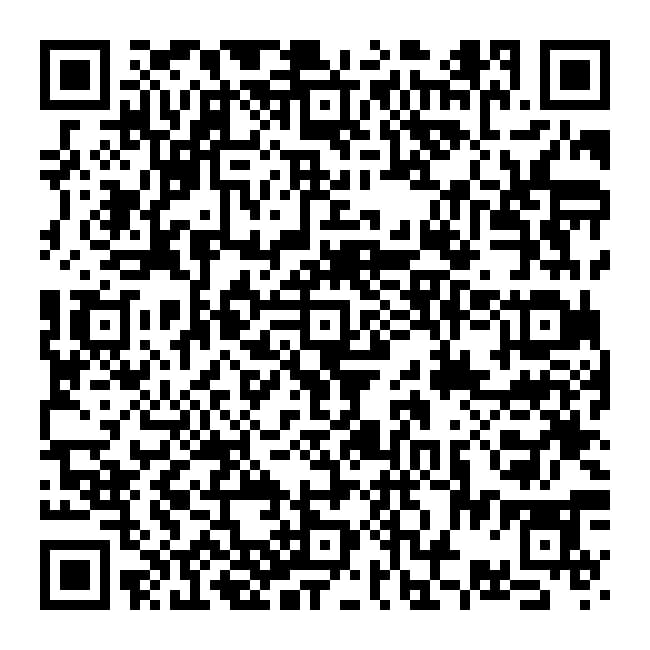
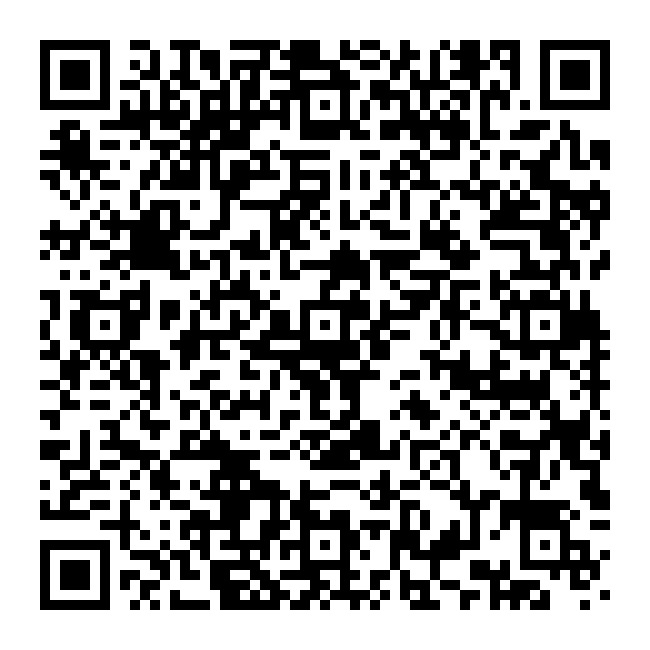
Updated

diff --git a/assets/js/main.js b/assets/js/main.js
@@ -9,13 +9,22 @@ document.addEventListener('DOMContentLoaded', function() {
         mirror: true
     });
     
-    // Preloader
+    // Preloader with scroll fix
     window.addEventListener('load', function() {
         const preloader = document.querySelector('.preloader');
         preloader.style.opacity = '0';
+        
+        // Ensure all resources are loaded and page is scrollable
         setTimeout(() => {
             preloader.style.display = 'none';
-        }, 500);
+            
+            // Fix for mobile scroll issues
+            document.body.style.height = 'auto';
+            document.documentElement.style.height = 'auto';
+            
+            // Force layout recalculation to ensure scrolling works
+            document.body.offsetHeight;
+        }, 800);
     });
     
     // Custom cursor
@@ -69,12 +78,8 @@ document.addEventListener('DOMContentLoaded', function() {
         hamburger.classList.toggle('active');
         navLinks.classList.toggle('active');
         
-        // Toggle body scroll when menu is open/closed
-        if (navLinks.classList.contains('active')) {
-            document.body.style.overflow = 'hidden'; // Prevent scrolling when menu is open
-        } else {
-            document.body.style.overflow = 'auto'; // Enable scrolling when menu is closed
-        }
+        // We're removing the overflow hidden approach as it may be causing scrolling issues
+        // Let the mobile menu overlay without preventing page scroll
     });
     
     // Close mobile menu when clicking on a link or anywhere on the page
@@ -82,7 +87,6 @@ document.addEventListener('DOMContentLoaded', function() {
         link.addEventListener('click', function() {
             hamburger.classList.remove('active');
             navLinks.classList.remove('active');
-            document.body.style.overflow = 'auto'; // Re-enable scrolling
         });
     });
     
@@ -93,7 +97,6 @@ document.addEventListener('DOMContentLoaded', function() {
             !hamburger.contains(event.target)) {
             hamburger.classList.remove('active');
             navLinks.classList.remove('active');
-            document.body.style.overflow = 'auto'; // Re-enable scrolling
         }
     });
     

diff --git a/assets/css/style.css b/assets/css/style.css
@@ -35,6 +35,13 @@ body {
     overflow-x: hidden;
     min-height: 100vh;
     position: relative;
+    -webkit-overflow-scrolling: touch; /* Smoother scrolling on iOS devices */
+}
+
+/* Ensure scrollability */
+body.scrollable {
+    height: auto;
+    overflow-y: visible;
 }
 
 body::before {
@@ -213,6 +220,7 @@ header {
     padding: 1rem 0;
     transition: all 0.3s ease;
     background-color: var(--darker);
+    will-change: transform; /* Performance optimization for fixed elements */
 }
 
 .navbar {
@@ -1318,14 +1326,16 @@ footer::before {
         top: -100%;
         left: 0;
         width: 100%;
-        height: 100vh;
-        padding: 4rem 2rem 2rem;
+        max-height: calc(100vh - 80px);
+        overflow-y: auto;
+        padding: 2rem;
         background: rgba(5, 5, 20, 0.98);
         flex-direction: column;
         align-items: center;
         transition: top 0.5s ease;
         backdrop-filter: blur(10px);
         z-index: 2000;
+        box-shadow: 0 8px 16px rgba(0, 0, 0, 0.3);
     }
     
     .nav-links.active {

diff --git a/index.html b/index.html
@@ -12,7 +12,7 @@
     <!-- Google Fonts -->
     <link href="https://fonts.googleapis.com/css2?family=Orbitron:wght@400;500;600;700;800;900&family=Poppins:wght@300;400;500;600;700&display=swap" rel="stylesheet">
 </head>
-<body>
+<body class="scrollable">
     <!-- Preloader -->
     <div class="preloader">
         <div class="loader"></div>
@@ -317,7 +317,7 @@
                         </div>
                         <div class="register-button-container">
                             <p>Or click the button below</p>
-                            <a href="https://docs.google.com/forms/d/e/1FAIpQLSeZqisiMyNI5JSWIardCPI726IrzhCIOwVqtUALFdDgN1XlOA/viewform?usp=header" target="_blank" class="btn primary-btn register-btn">Register Now</a>
+                            <a href="https://forms.gle/uc8CREgFJNTLnt6SA" target="_blank" class="btn primary-btn register-btn">Register Now</a>
                         </div>
                     </div>
                 </div>
